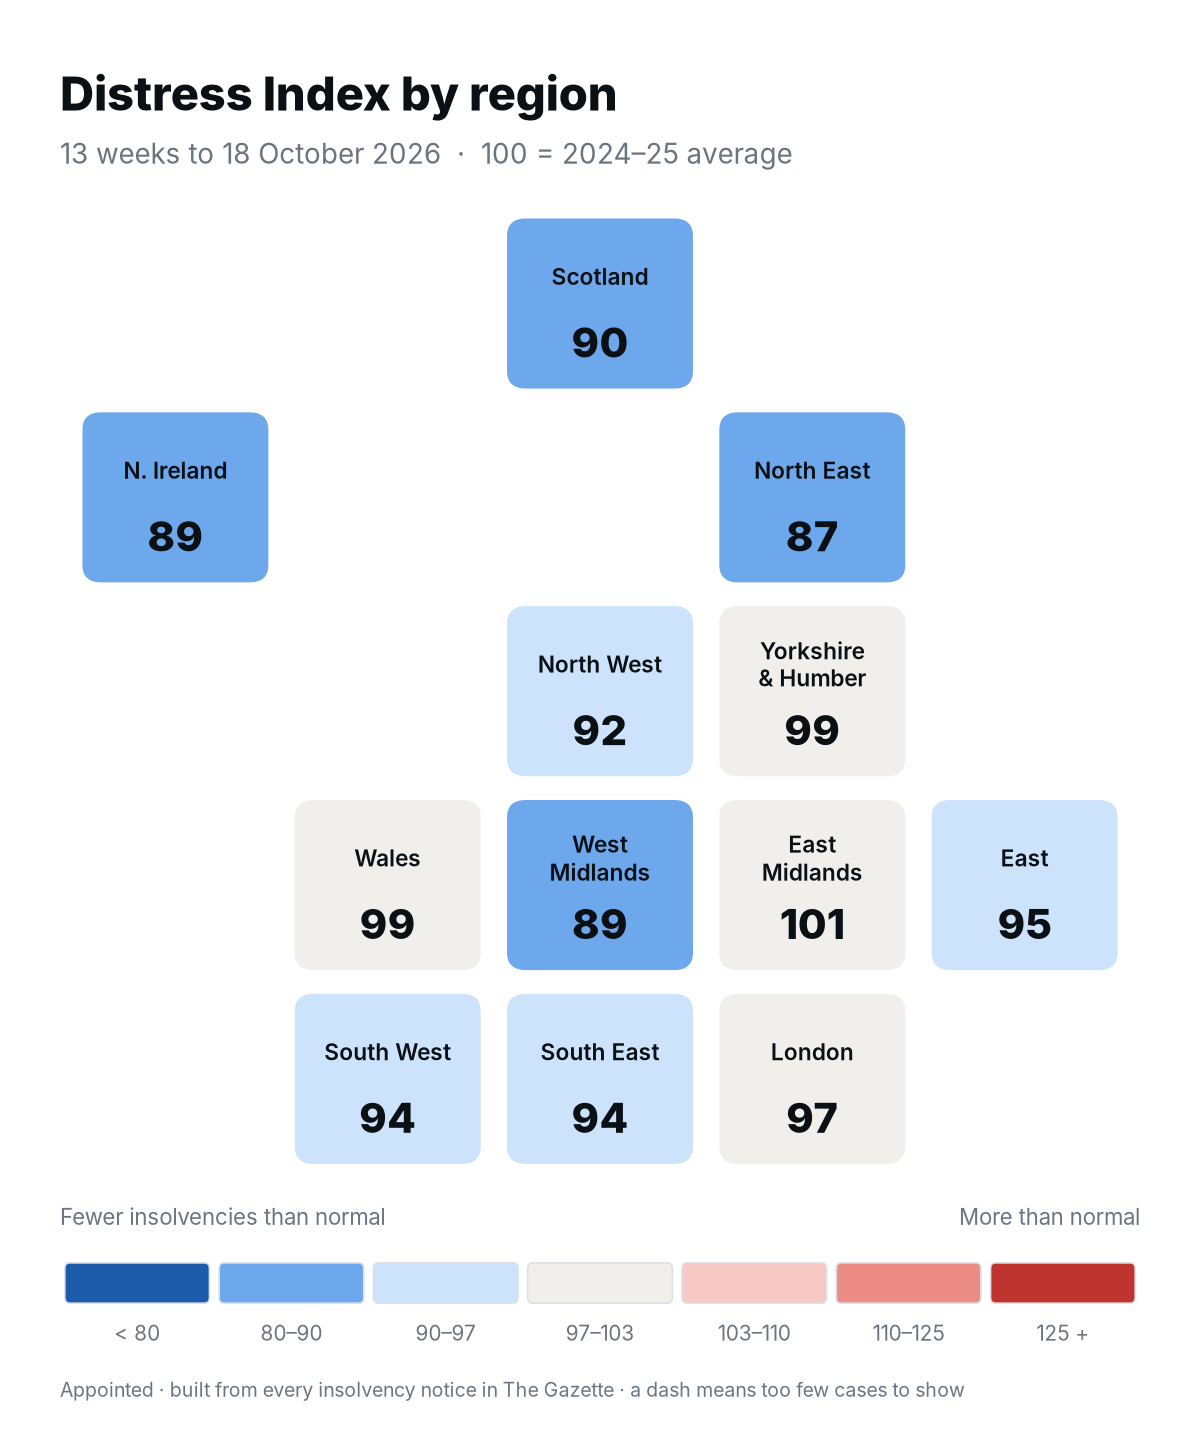
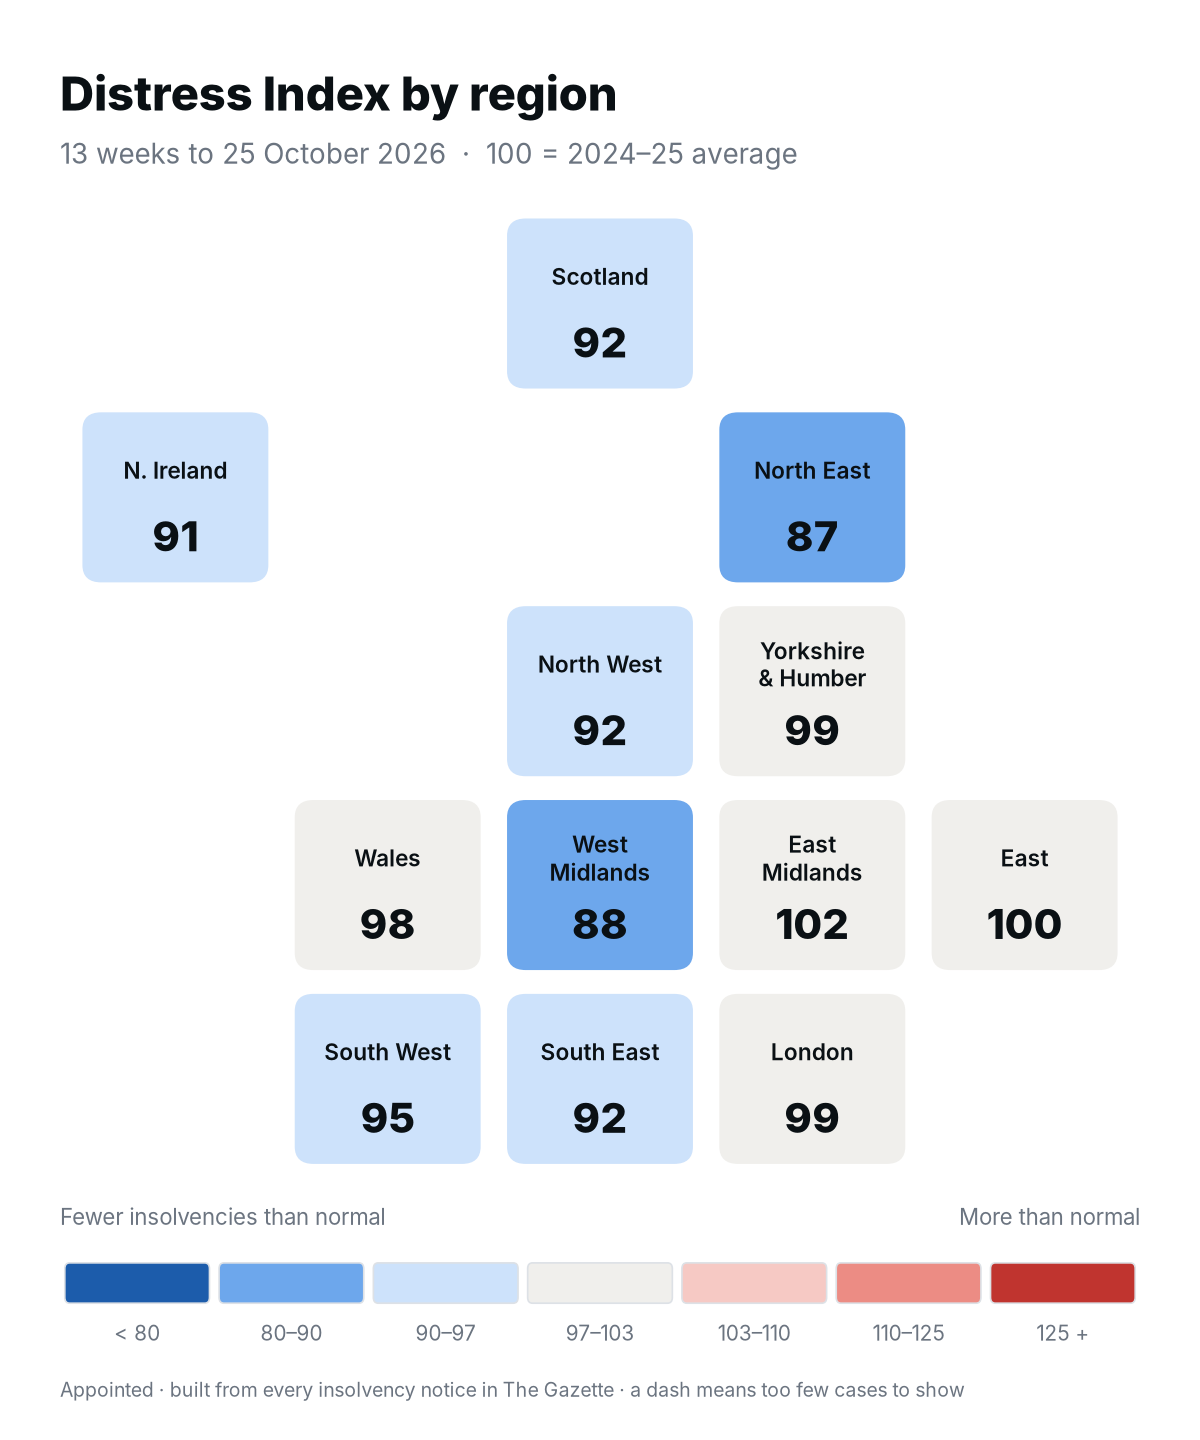
Data update 2026-10-26

diff --git a/docs/data/last_run.md b/docs/data/last_run.md
@@ -1,6 +1,6 @@
 # Last run
 
-- UTC: 2026-10-25T03:02:04Z
+- UTC: 2026-10-26T03:03:36Z
 - Trigger: schedule
 
 ```
@@ -15,21 +15,21 @@ month 2026-09
   2026-09 2452: 332 notices
   2026-09 2603: 99 notices
 month 2026-10
-  2026-10 2410: 118 notices
+  2026-10 2410: 120 notices
   2026-10 2421: 0 notices
   2026-10 2423: 0 notices
-  2026-10 2441: 1175 notices
-  2026-10 2443: 1199 notices
-  2026-10 2450: 568 notices
+  2026-10 2441: 1201 notices
+  2026-10 2443: 1226 notices
+  2026-10 2450: 571 notices
   2026-10 2451: 2 notices
-  2026-10 2452: 195 notices
+  2026-10 2452: 220 notices
   2026-10 2603: 77 notices
-office addresses: {'office_points': 669, 'notices_at_office_points': 55878, 'share_at_office_points': 0.1839, 'notices_without_point_field': 0}
-published: 355 weeks, 303829 notices, 183216 events
+office addresses: {'office_points': 669, 'notices_at_office_points': 55898, 'share_at_office_points': 0.1839, 'notices_without_point_field': 0}
+published: 356 weeks, 303912 notices, 183271 events
 constituencies: 632 seats, 9 quarters
 official: company-insolvencies-september-2026, 81 months; reconciled 243 component-months
   ADM: {'months_compared_since_apr_2022': 54, 'ratio_mean': 1.02, 'ratio_sd': 0.161, 'ratio_min': 0.665, 'ratio_max': 1.495, 'share_of_months_within_10pct_of_mean': 0.5, 'corr_monthly_changes': 0.642, 'corr_3month_changes': 0.786, 'latest_month': '2026-09', 'latest_ratio': 1.14}
   CVL: {'months_compared_since_apr_2022': 54, 'ratio_mean': 1.02, 'ratio_sd': 0.107, 'ratio_min': 0.756, 'ratio_max': 1.281, 'share_of_months_within_10pct_of_mean': 0.704, 'corr_monthly_changes': 0.479, 'corr_3month_changes': 0.554, 'latest_month': '2026-09', 'latest_ratio': 1.03}
   WUO: {'months_compared_since_apr_2022': 54, 'ratio_mean': 1.009, 'ratio_sd': 0.23, 'ratio_min': 0.203, 'ratio_max': 1.447, 'share_of_months_within_10pct_of_mean': 0.37, 'corr_monthly_changes': 0.168, 'corr_3month_changes': 0.247, 'latest_month': '2026-09', 'latest_ratio': 0.91}
-charts: regional map for week starting 2026-10-12
+charts: regional map for week starting 2026-10-19
 ```
